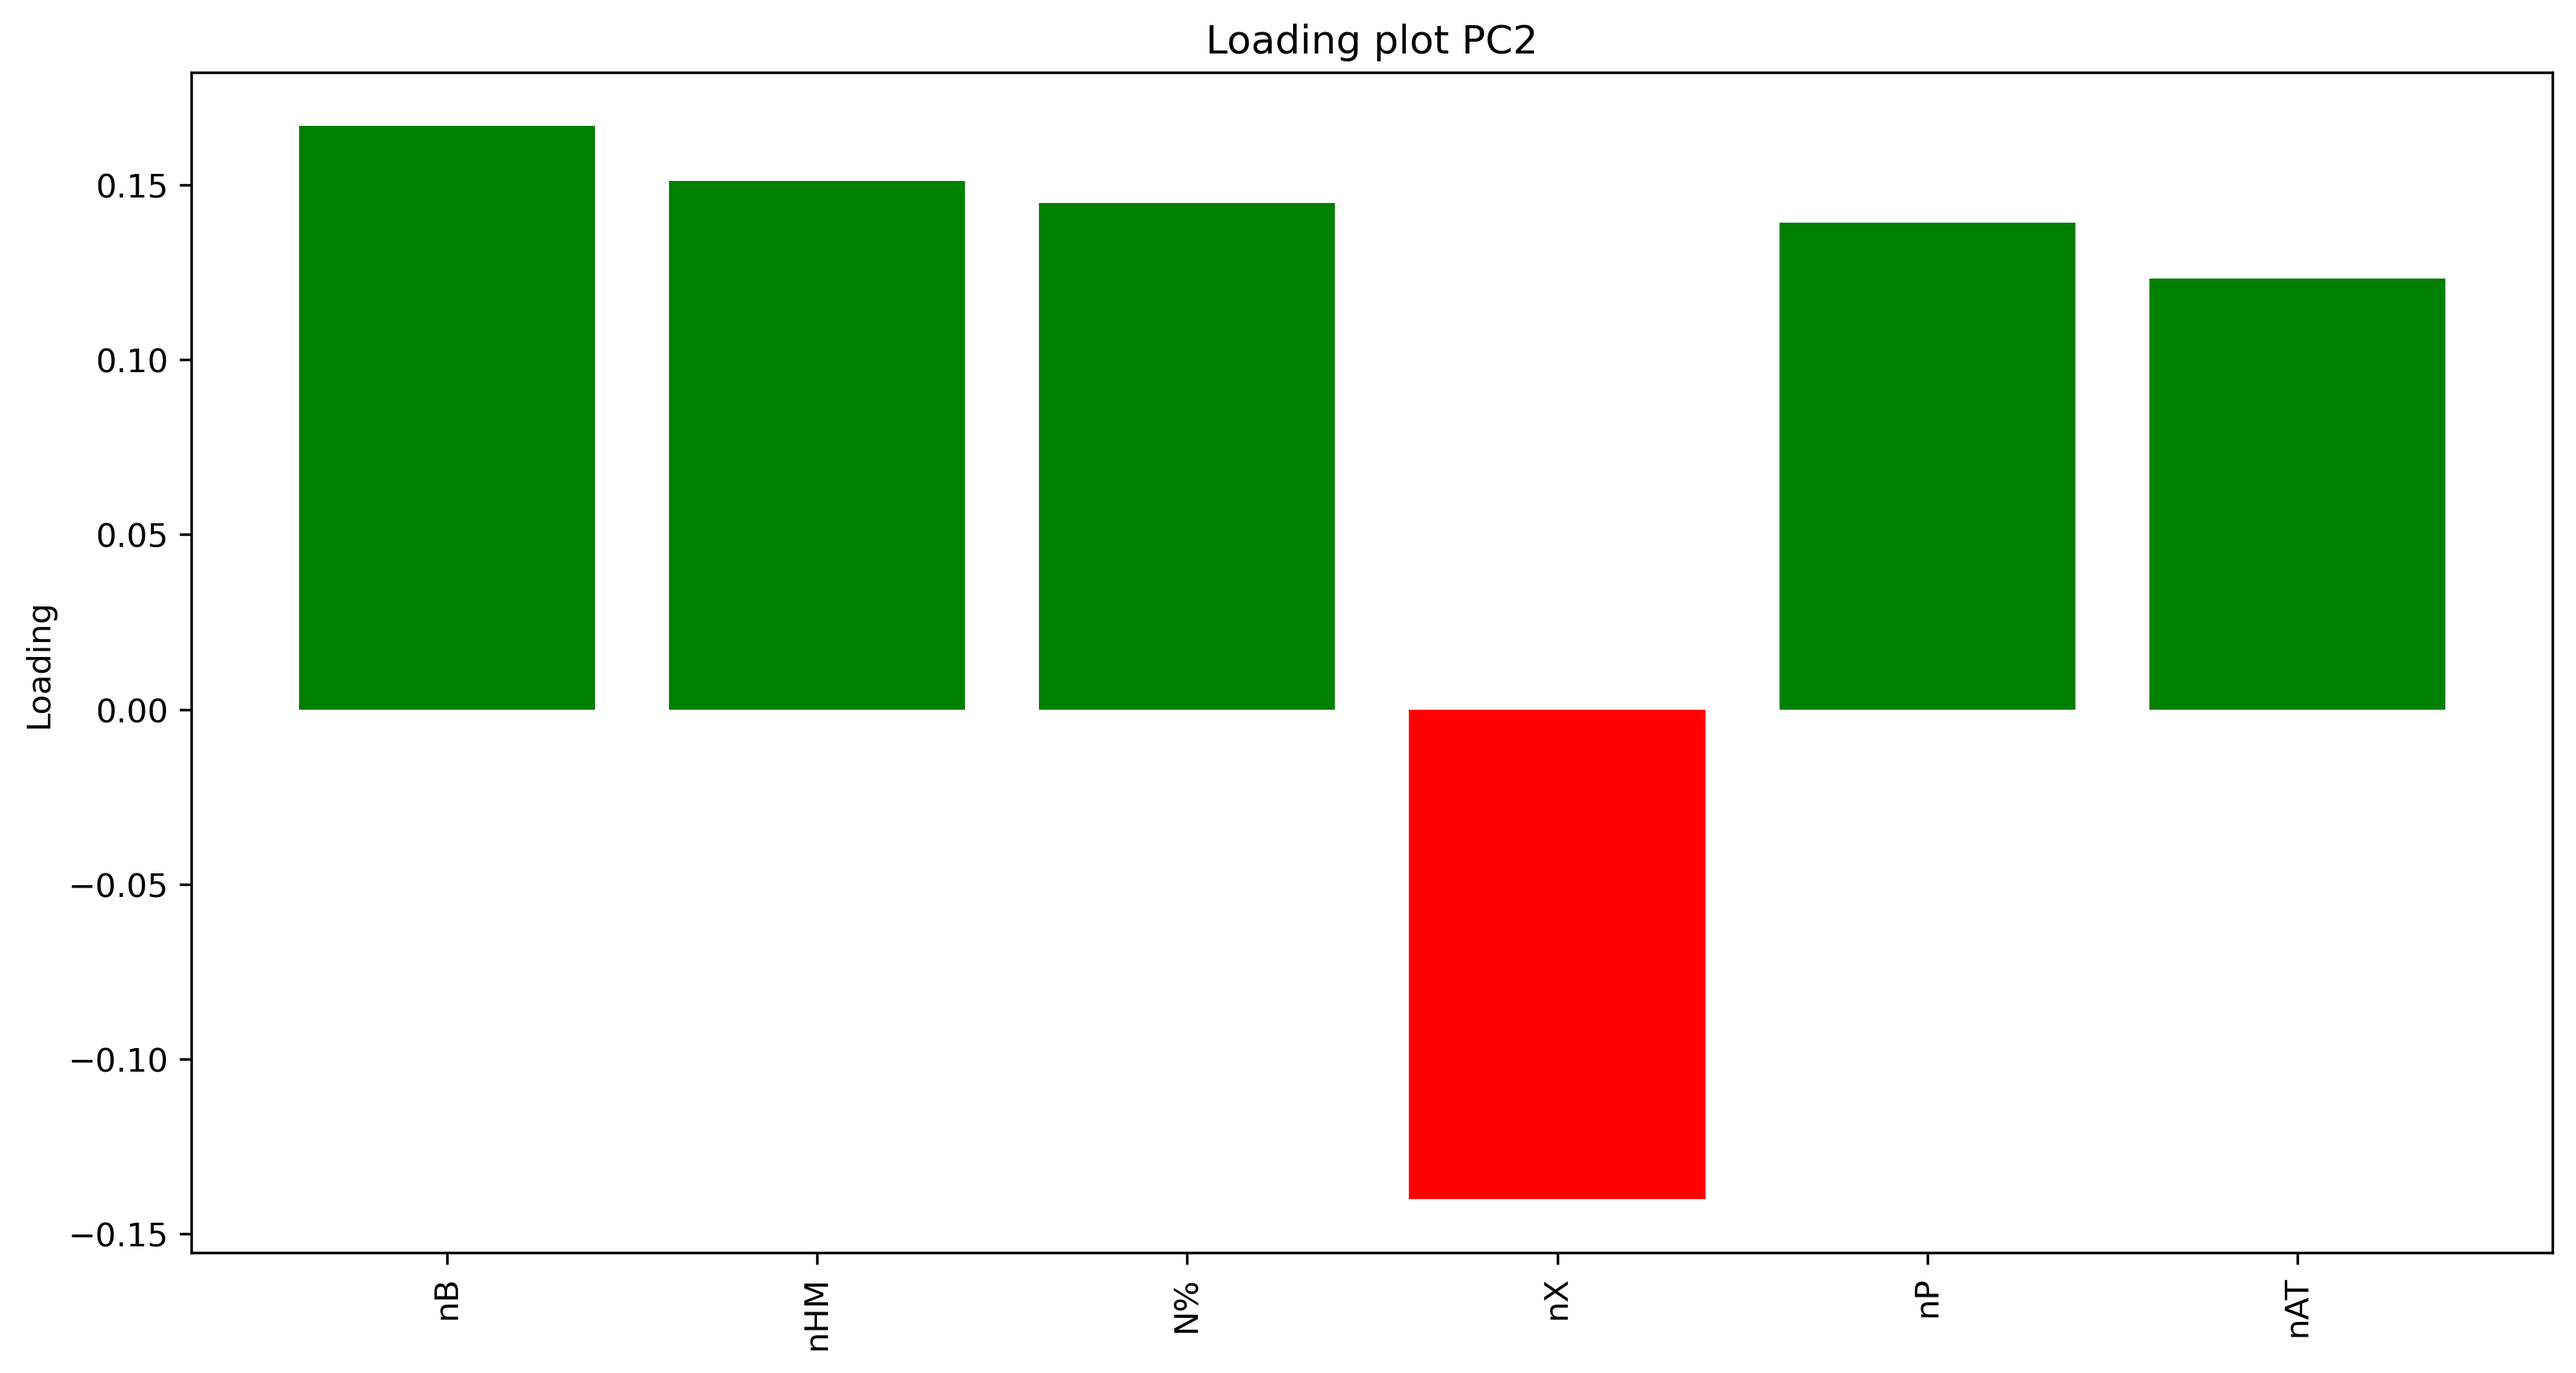
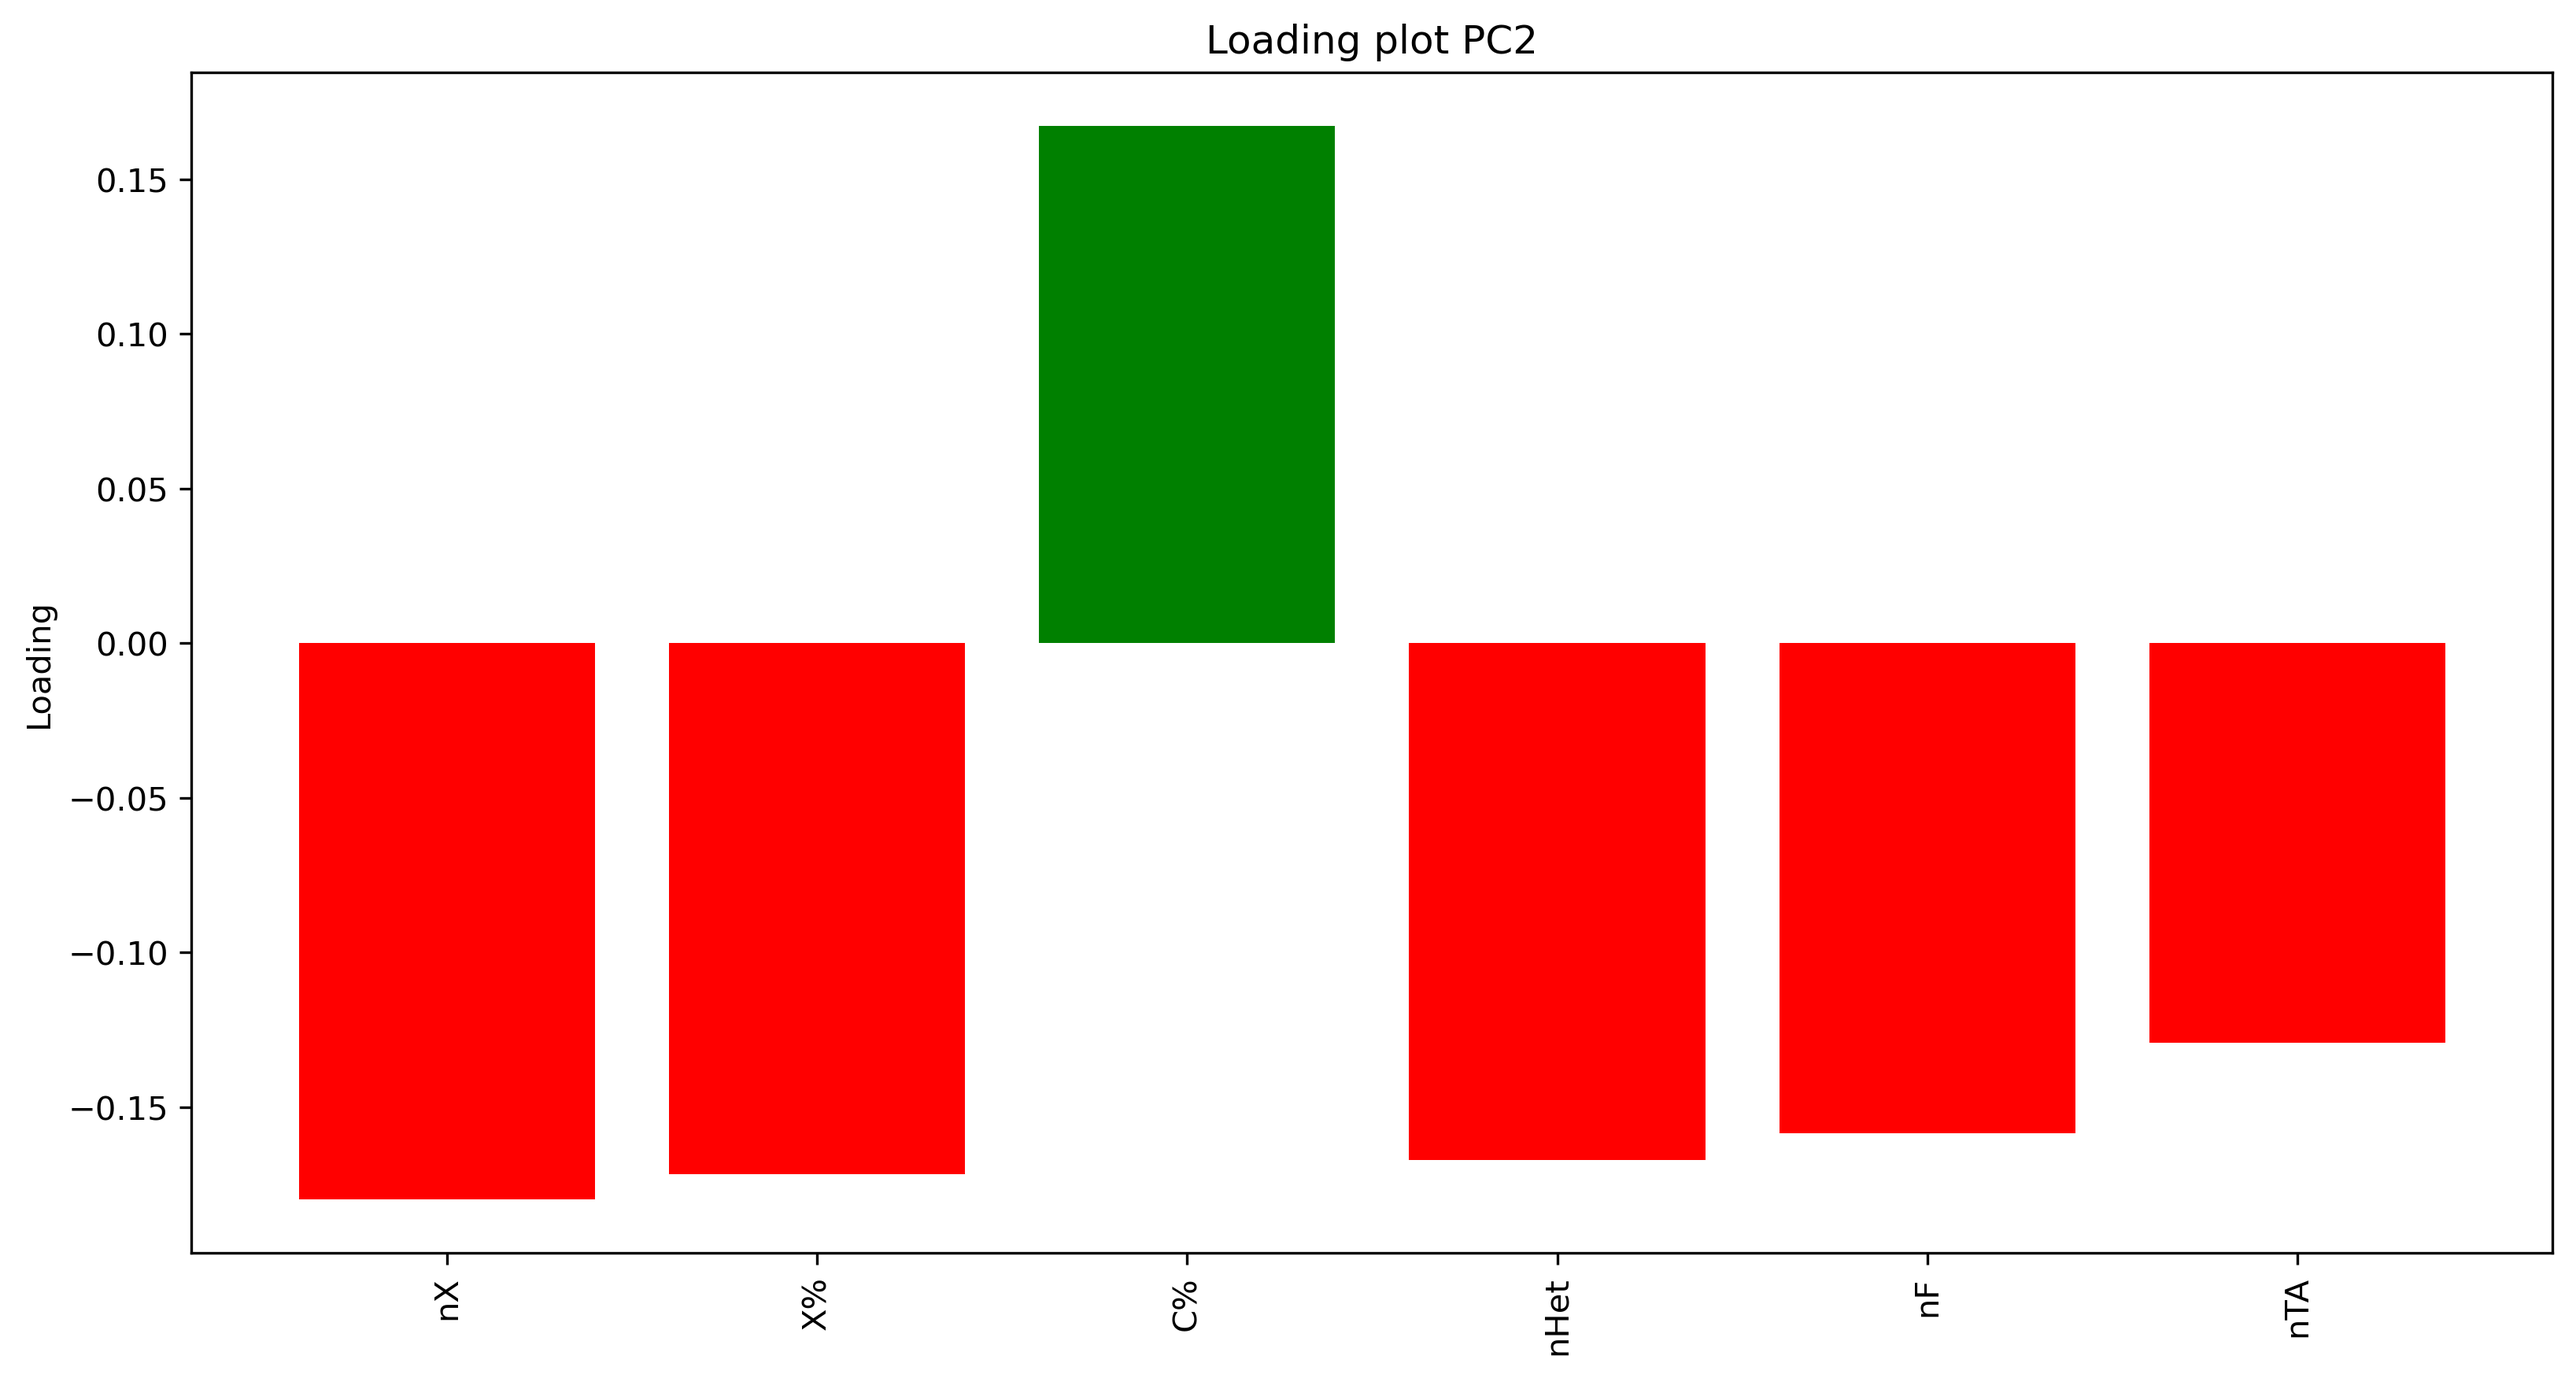
plot targets

diff --git a/PCA (week 2&3)/AssignmentPCA_met_loading_plot.py b/PCA (week 2&3)/AssignmentPCA_met_loading_plot.py
@@ -501,11 +501,11 @@ class PCA_plot():
         """
     
         # Select the correct data:
-        if target == 0:
+        if target == 0 or target == 'ppar':
             eig_vals,eig_vecs = self.target1_eigval, self.target1_eigvec
-        elif target == 1:
+        elif target == 1 or target == 'thrombin':
             eig_vals,eig_vecs = self.target2_eigval, self.target2_eigvec
-        elif target == 2:
+        elif target == 2 or target == 'cox2':
             eig_vals,eig_vecs = self.target3_eigval, self.target3_eigvec
         else: 
             raise ValueError('Target unknown')

diff --git a/PCA (week 2&3)/main_met_loading_plot.py b/PCA (week 2&3)/main_met_loading_plot.py
@@ -54,7 +54,17 @@ pca_plot = PCA_plot(df)
 #                   PC = PC+1, 
 #                   n_vars = n_vars)
 
-
+n_vars = 5
+n_PCs = 3
+PC = 1
+for target in ['ppar', 'thrombin', 'cox2']:
+    # for PC in range(n_PCs):
+        pca_plot.loading_plots(Molecule(df, 'ppar').descriptors[2:], 
+                      # eig_vals_real = pca_eigval, 
+                      # eig_vecs_real = pca_eigvec,
+                      target = target,
+                      PC = PC+1, 
+                      n_vars = n_vars)
 
 
 
